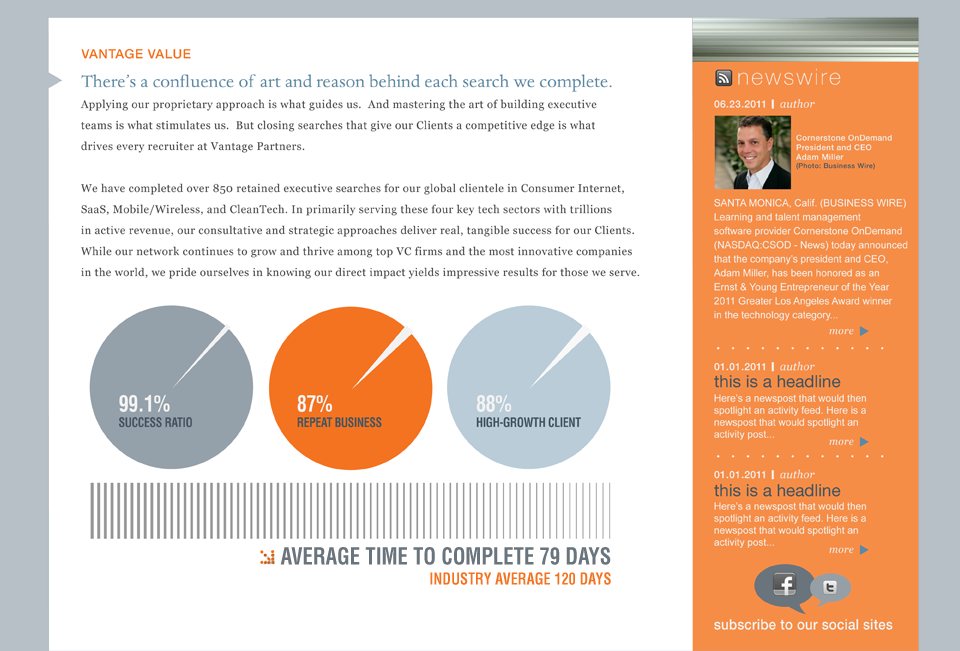
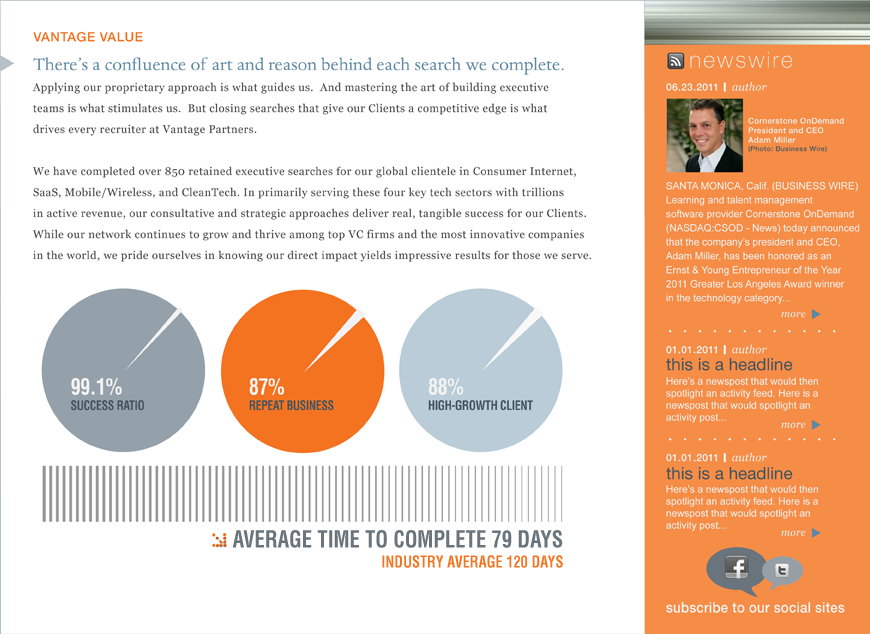
working on main content zone

diff --git a/public/stylesheets/style.css b/public/stylesheets/style.css
@@ -42,14 +42,17 @@ body {
   float:left;
   background-color:#a9b2ba;
 }
-#content-home {
-  float:left;
+
+#content_home {
   margin:0;
   padding:0 0 210px 0;
-  width:960px;
   height: 650px;
-  background: #a9b2ba url("../images/content-home-placeholder.png") no-repeat scroll -4px 0;
 }
+
+#content {
+  background-color: #b7c0c7;
+}  
+
 #infographic {
   
 }
